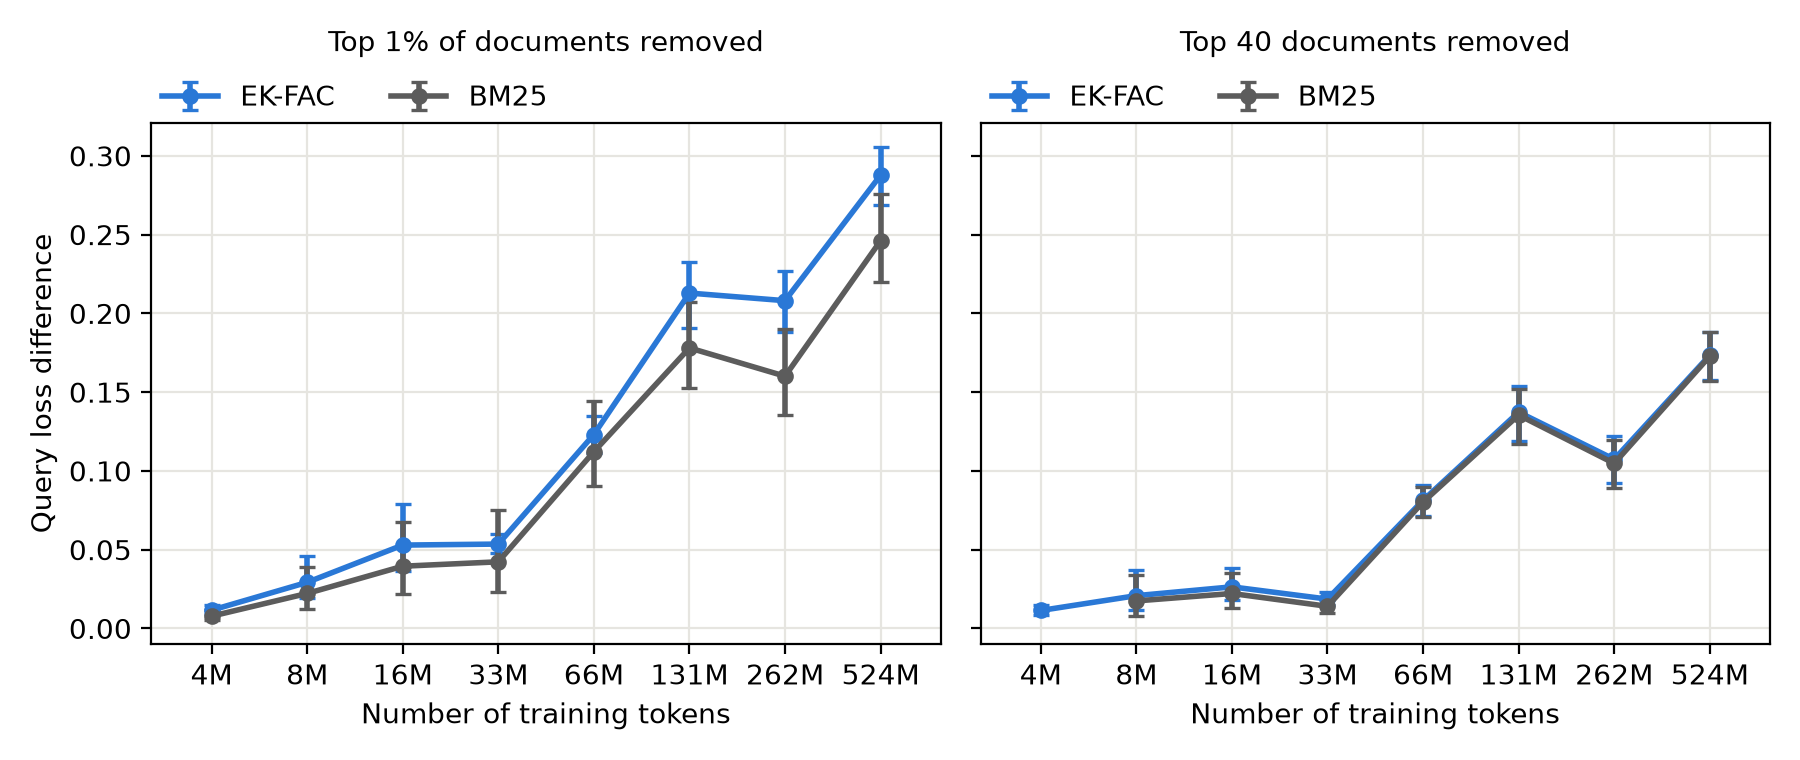
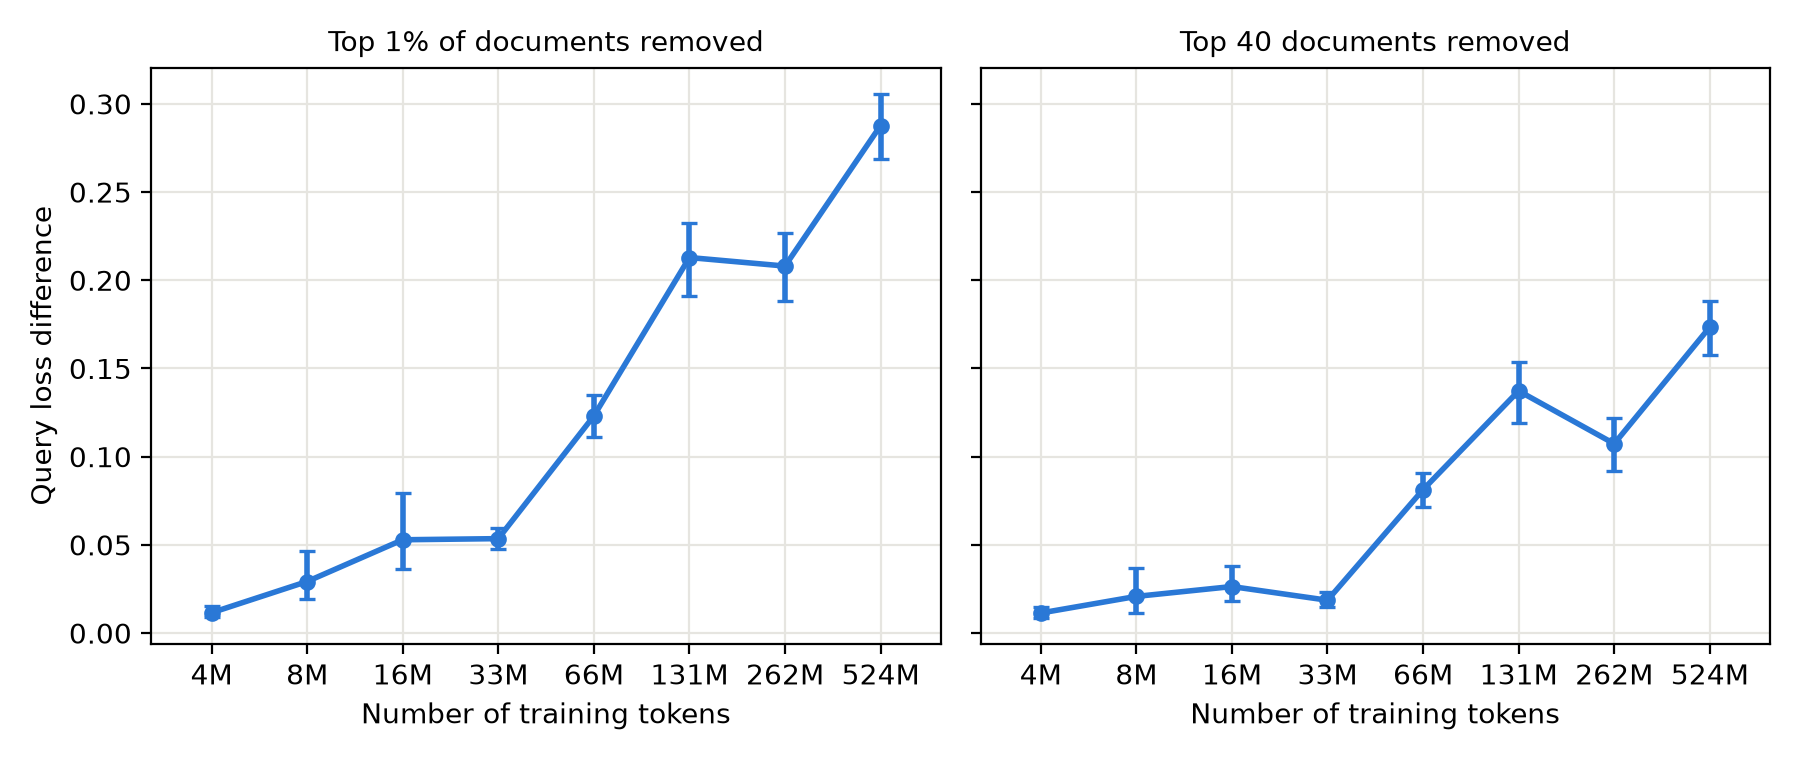
Move BM25 from the main figure into the method-comparison appendix figure

diff --git a/scripts/scaling_plot_mpl.py b/scripts/scaling_plot_mpl.py
@@ -163,22 +163,17 @@ tok_labels = [f"{tokens(n) / 1e6:.0f}M" for n in NS]
 # Main figure: AdamW 1% filter beside the fixed-40-document filter.
 fig, (ax1, ax2) = plt.subplots(1, 2, figsize=(9, 3.8), dpi=200, sharey=True)
 name, color, _, prefixes = SERIES[0]
-draw(ax1, tok_ticks, scaling_points(prefixes), color, label="EK-FAC")
-draw(ax1, tok_ticks, bm25_scaling_points(prefixes), BM25, label="BM25")
+draw(ax1, tok_ticks, scaling_points(prefixes), color)
 style(ax1, tok_ticks, tok_labels, "Number of training tokens")
-ax1.set_title("Top 1% of documents removed", fontsize=10, pad=26)
+ax1.set_title("Top 1% of documents removed", fontsize=10)
 
 top40_ticks = [tokens(n) for n, _ in TOP40_ROWS]
 draw(ax2, top40_ticks, [top40_delta_ci(run, "ekfac") for _, run in TOP40_ROWS],
-     color, label="EK-FAC")
-draw(ax2, top40_ticks, [top40_delta_ci(run, "bm25") for _, run in TOP40_ROWS],
-     BM25, label="BM25")
+     color)
 style(ax2, top40_ticks, [f"{t / 1e6:.0f}M" for t in top40_ticks],
       "Number of training tokens")
-ax2.set_title("Top 40 documents removed", fontsize=10, pad=26)
+ax2.set_title("Top 40 documents removed", fontsize=10)
 ax2.set_ylabel(None)
-outside_legend(ax1, 2)
-outside_legend(ax2, 2)
 main_ylim = ax1.get_ylim()
 save(fig, "filter_scaling.png")
 
@@ -201,15 +196,17 @@ ax.set_ylim(main_ylim)
 outside_legend(ax, len(SERIES))
 save(fig, "filter_batch_appendix.png")
 
-# Appendix figure: EK-FAC vs MAGIC proponent filters, AdamW corpus scaling.
+# Appendix figure: EK-FAC vs MAGIC vs BM25 proponent filters, AdamW corpus scaling.
 fig, ax = plt.subplots(figsize=(7, 4.5), dpi=200)
 prefixes = SERIES[0][3]
-for method, color, dodge in [("ekfac", BLUE, 0.98), ("magic", AQUA, 1.02)]:
+for method, color, dodge in [("ekfac", BLUE, 0.97), ("magic", AQUA, 1.0)]:
     label = {"ekfac": "EK-FAC", "magic": "MAGIC"}[method]
     draw(ax, [t * dodge for t in tok_ticks], scaling_points(prefixes, method),
          color, label=label)
+draw(ax, [t * 1.03 for t in tok_ticks], bm25_scaling_points(prefixes),
+     BM25, label="BM25")
 style(ax, tok_ticks, tok_labels, "Number of training tokens")
-outside_legend(ax, 2)
+outside_legend(ax, 3)
 save(fig, "filter_method_appendix.png")
 
 # Appendix figure: training-setup variants at 16k documents, AdamW.
